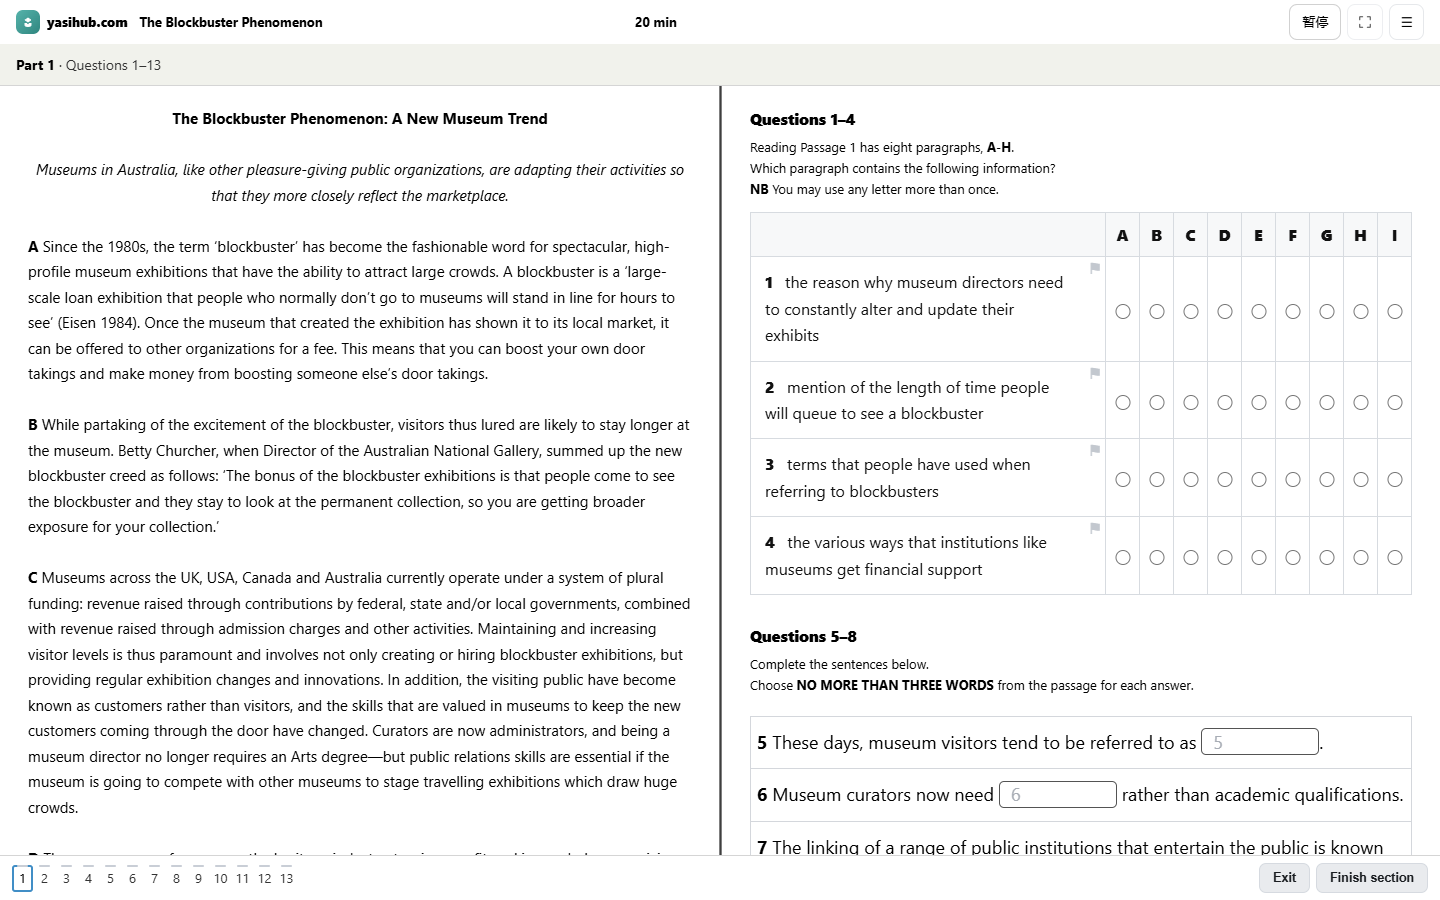
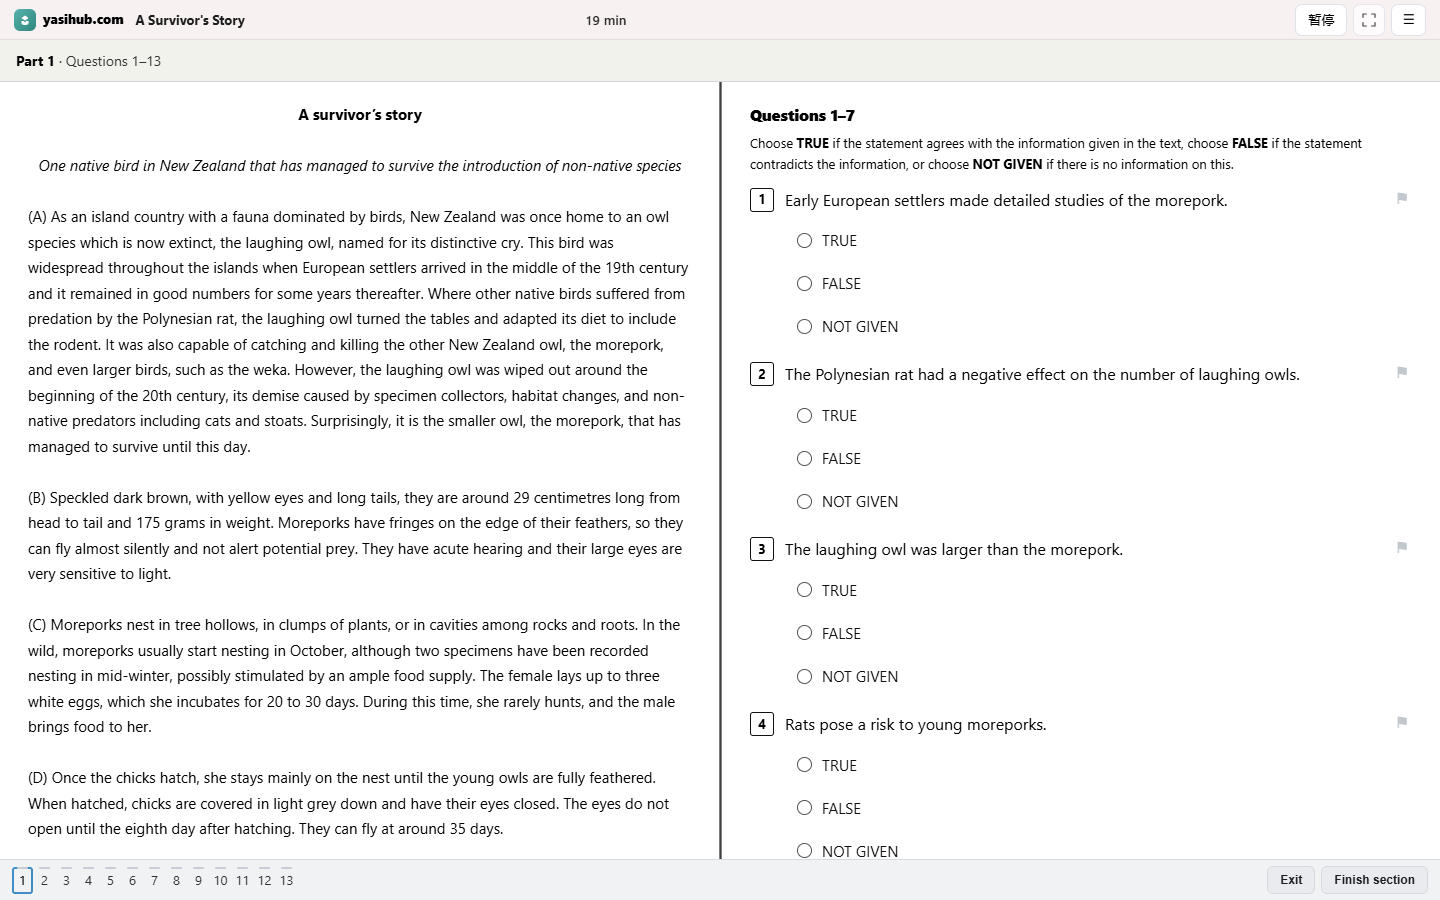
11-19 落地页四图换新 + 全站巡检两处修复

diff --git a/sw.js b/sw.js
@@ -76,7 +76,7 @@
 // bank.js → 20261012ac（仅 bank.html）。上一版 v409。
 // 注记：当前 CACHE v922 除设置页侧栏外，还含 11-16 AI-QUOTA-3（会员重活逐项 5 次、模考周 10 场、7 天卡 1/4）。
 // 11-16 v884 = BANK-V2：机经五格侧栏（阅读 / 听力 / 记录 / 错题 / 统计），听力中英双行、阅读源数据暂无中文先英文单行、整套收页首、目录扁平化、记录与统计重做空态和数据态、错题本轮只出「即将上线」罩衫、页底「机经是什么？」弹窗；判分与考场零改动。
-const CACHE = 'ielts-hub-v930';  // 11-19 v930 = LANDING-D 首页整体重排 + 计划页实截图更新；上一版 v929 新增真题词库证据块。
+const CACHE = 'ielts-hub-v932';  // 11-19 v932 = 落地页四图换新（v931）+ 设置页 $ 兜底、materials 桌面顶栏偏移修复；上一版 v930 LANDING-D 首页重排。
 const _prevCacheNote187 = 'ielts-hub-v871'; // 11-13 v872 = QUOTA-SELFHEAL-1 iPhone Safari 本地存储写不进自救（她 11-13 截图报「保存失败：本地存储空间已满（iPhone Safari 上限约 5MB），自动清理后仍放不下，请在设置导出备份并截图反馈」，原话「这个解决一下」）。根因＝js/data.js hubSave() 把整个 DATA 写单个 HUB_KEY，超 iPhone Safari ~5MB（UTF-16）配额抛 QuotaExceededError，旧兜底只 trimDictationDupes() 一种日志去重，清不动就 alert 挡整页 + 让用户导出备份/截图，且 __hubSaveAlerted 让本会话之后静默失败＝数据其实没存上还不知道。修法全部收在 hubSave/hubLoad 两个既有函数＋5 个新小工具，零 DOM/UI/用户数据删除、不改 DATA 结构、不引入同步读改造：① 保留默写日志去重；② 新增 shedLocalCacheKeys() 按白名单前缀精准清 origin 内纯缓存/草稿键（做题草稿 hub_bank_draft_/full_draft/last_、音量 vol、分栏比例、公告缓存、角色缓存、active），绝不 clear()、绝不碰 HUB_KEY/CREDS_KEY/hub_onboarding_v2/hub_auth_token/hub_device_id/hub_vip_flag_v1，每级清理后重试写盘；③ 仍放不下则 hubOffloadSave() 异步把主 blob 兜底写 IndexedDB（ielts_hub_offload/kv/main）+ 置极小标记，数据仍由 hubSave 末尾既有 scheduleCloudUpload() 上行，不丢；④ alert 换 hubQuotaNotice()＝非阻塞 toast（common.js 提供，缺失降 console.warn）+ 60s 防抖，不再让人干活；⑤ hubLoad 在主 blob 缺失且有标记时 hubOffloadLoad() 异步补回并 dispatch hub:data-merged 触发重渲。参考成熟口径：超限精准清理重试、禁 clear 误删凭证、大体积兜底 IndexedDB（bugnet.io / tutorials.dodatech.com / php.cn）。改 js/data.js 本体＝全站共享，按项目铁律 22 个根 HTML 的 js/data.js?v=20261030a→20261113d 整组同 bump；SW 预缓存裸路径 /js/data.js 不动。本地探针 tests/_probe_quota_fix_1113.cjs 全绿（正常保存走 localStorage / mock setItem 对 HUB_KEY 抛 QuotaExceededError 时触发日志去重＋缓存键清理＋IndexedDB 兜底＋不 alert＋云同步仍调用 / 白名单保护键一个没删 / offload 往返读回 / 22 页串 / node --check / 零双 CR）。发布按 11-09：一个改动一提交、自验全绿直接合 main 上线。
 const _prevCacheNote186 = 'ielts-hub-v870'; // 11-13 v871 = MAT-PROMPT-GENERIC 串题素材总纲重写（她 11-13 原话「我叫你调整串题 Promote……万一其他用户也要导入这样的你总不能帮他也重新做另一段话吧」「Promote 不要强制限定词数和故事个数，我要的就是把能重复利用的故事整合在一起就行了，尽可能少的故事串所有题目」）：「AI 整理成万能素材 / 导入整理」那条提示词 SYS_MAT 只认「一段段生活经历」、还硬卡 2~4 个故事 / 130~180 词 / 190 硬顶 / 3 句万能句 / 5~7 句骨架，用户粘「固定句式＋万能素材＋{ } 换词＋中文逻辑链＋铁律」的结构化背诵卡时套不进去、整理不出来。这次把总纲改成通用版：① 按语义识别两类输入（生活经历 / 结构化背诵卡，各用户措辞不同都认），可混用；② **不限制词数、句子长短、故事 / 卡片个数、万能句与骨架句数、不设字数硬顶**，一切以「能重复利用、尽可能少的故事串住尽可能多的题」为准；③ 结构化卡里的英文原句（含 { } 占位，里面可能是中文提示）一字不改照背、只替换 { } 里的词，不重组语序 / 不翻译 / 不续写，中文逻辑链与铁律进 logicZh / note 遵守；④ coverage 仍宁多勿漏、topic 仍逐字取当季题库清单（前端 normalizeMaterial 依赖），JSON schema 一字不变 → 前端零改动；⑤ importNote / user 尾句同步去掉「规则 5.2 / 连贯大故事 / 按段拆卡」等与照背冲突的旧措辞，storyEn 中文污染自愈也加了花括号占位保护，不会把 { } 里的中文提示改坏。零 DOM / id / 数据 / 判分 / 云同步 / 输入框 / AI 纠正改动；改 materials.js 本体 → materials.html 与 speaking.html 的 js/materials.js?v=20261102d→20261113c 两处同 bump；同笔把 js/sp-story.js 的串题规划 / 成稿提示词也加同一套通用兼容（{ } 占位与照背铁律的固定原句逐字沿用、不强制 110~150 词），speaking.html 的 js/sp-story.js?v=20261023a→20261113c；SW 预缓存清单（裸路径 /js/materials.js / /js/sp-story.js）不动。本地探针 tests/_probe_prompt_v3_1113.cjs 全绿（静态总纲无数字硬限 + 通用识别 + 照背 + schema 仍在；Playwright 实开 materials.html 拦截 callRelay 捕获真实 system/user 提示词核对；零 pageerror）。发布按 11-09：一个改动一提交、自验全绿直接合 main 上线。
 const _prevCacheNote185 = 'ielts-hub-v869'; // 11-13 v870 = REVIEW-REDESIGN-3 回顾模块重新设计（她 11-13 点头「两个我觉得都可以……成绩趋势改成趋势……可以开始改了，给我还原度高一点，改完自己检查一下」第 2 笔）：侧栏 5 项收成 3 项「总览 / 趋势 / 记录」（成绩趋势按她要求改两字「趋势」、四科表现并入总览、学习投入降为默认折叠、考试记录改「记录」），与计划页重复的「今天」待办块收掉、只留「去计划页查看全部」轻链接。重要数据放大：最近一次总分 62px 等宽、四科 2×2 且弱科用 --warn-ink 状态条、一句「先补哪几科」行动带；不再单独展示重复 4 数卡 / 水平标尺 / 距目标分 / 未达标科数，趋势页 4 数卡收成 2 张；四科雷达、连胜 / 最长连续 / 日均 / 累计、12 周热力图、14 天柱状、表现统计与题型 Part 明细全部保留但收进两个默认折叠（reHomeFold / reRecFold），展开即用。实现口径＝零 DOM/id/数据落点/事件绑定删除：js/rv-tabs.js 只改 TABS、老 hash #rv=subjects/effort 落回总览、总览顺带渲染折叠内容；review.html 结构重排 + 页内 style#reRedesign3 高特异度重皮，rvx-data.js 现填的 rvx* id 与 data-rv2-add / rvxWeakGo 委托一个没动；空账号沿用笔8 B 卡，两个折叠在空态不冒出来。颜色全走站点 token 深浅两档、零写死主题色值；改了 js/rv-tabs.js 本体→review.html 引用串 20261109a→20261113b，其余 ?v= 与 SW 预缓存清单全不动。本地探针 tests/_probe_review_v3_1113.cjs 44/44 全绿（静态原文/有数据桌面 19/老 hash/空账号/深色/手机/切 tab/录入弹窗/折叠展开真内容/零 pageerror），改后四态实拍逐张看过、干净。发布按 11-09：一个改动一提交、做完自验直接合 main 上线。

diff --git a/index.html b/index.html
@@ -10,14 +10,14 @@
 <meta property="og:url" content="https://yasihub.com/">
 <meta property="og:title" content="雅思备考 Hub｜今天该练什么，打开就知道">
 <meta property="og:description" content="627 篇阅读与听力练习、89 条口语题卡、42 套写作模板，加上每日清单、AI 批改和成绩回顾。">
-<meta property="og:image" content="https://yasihub.com/img/landing/plans-demo.png?v=930">
+<meta property="og:image" content="https://yasihub.com/img/landing/plans-demo.png?v=931">
 <meta property="og:image:alt" content="雅思备考 Hub 今日计划真实界面">
 <meta property="og:site_name" content="雅思备考 Hub">
 <meta property="og:locale" content="zh_CN">
 <meta name="twitter:card" content="summary_large_image">
 <meta name="twitter:title" content="雅思备考 Hub｜今天该练什么，打开就知道">
 <meta name="twitter:description" content="627 篇阅读与听力练习、89 条口语题卡、42 套写作模板，加上每日清单、AI 批改和成绩回顾。">
-<meta name="twitter:image" content="https://yasihub.com/img/landing/plans-demo.png?v=930">
+<meta name="twitter:image" content="https://yasihub.com/img/landing/plans-demo.png?v=931">
 <link rel="canonical" href="https://yasihub.com/">
 <title>雅思备考 Hub｜今天该练什么，打开就知道</title>
 <script type="application/ld+json">
@@ -77,7 +77,7 @@
     <div class="hero-visual">
       <div class="shot">
         <div class="shot-bar"><span class="shot-dots"><i></i><i></i><i></i></span>YASIHUB / TODAY<span class="shot-status"><i></i>今天 1 / 3 已完成</span></div>
-        <img src="img/landing/plans-demo.png?v=930" width="1160" height="725" alt="雅思备考 Hub 今日计划真实界面，显示待练任务、剩余时间和完成进度" fetchpriority="high">
+        <img src="img/landing/plans-demo.png?v=931" width="1160" height="725" alt="雅思备考 Hub 今日计划真实界面，显示待练任务、剩余时间和完成进度" fetchpriority="high">
         <div class="shot-foot"><span>每日清单 · 做完打勾</span><span>真实页面 · 演示数据</span></div>
       </div>
     </div>
@@ -93,8 +93,8 @@
     <div class="section-head"><div><span class="eyebrow">THE DAILY LOOP</span><h2>从今天的清单，<br>回到自己的进步。</h2></div><p>不是把功能堆在一起。做什么、怎么练、练完看什么，接上同一条轨迹。</p></div>
     <div class="workflow-grid">
       <article class="today-step reveal"><span class="step-no">01 / TODAY</span><h3>今天该练什么，<br>不用临时起意。</h3><p>首屏这张清单，就是每天的起点。</p><ul class="check-list"><li>每项写清练习内容和时长</li><li>做完打勾，先做最上面一项</li><li>没做完的顺延，不会悄悄丢掉</li></ul></article>
-      <article class="step reveal"><div class="shot"><img src="img/landing/speaking-materials.png?v=930" width="1160" height="725" alt="口语素材真实页面，用个人经历串起当季口语题"></div><div class="step-caption"><span class="step-no">02 / SPEAKING</span><h3>52 道题，<br>不用写 52 篇素材。</h3><p>先整理自己的经历，再看同一段经历能接住哪些当季题。新题来了，不必从零开始。</p></div></article>
-      <article class="step reveal"><div class="shot"><img src="img/landing/review-demo.png?v=930" width="1160" height="725" alt="成绩回顾真实页面，展示四科成绩、目标差和趋势"></div><div class="step-caption"><span class="step-no">03 / PROGRESS</span><h3>练完有没有进步，<br>别凭感觉。</h3><p>模考成绩、四科分数和练习记录收在一处。最近一次考多少、哪科最弱，打开就知道。</p></div></article>
+      <article class="step reveal"><div class="shot"><img src="img/landing/speaking-materials.png?v=931" width="1160" height="725" alt="口语素材真实页面，用个人经历串起当季口语题"></div><div class="step-caption"><span class="step-no">02 / SPEAKING</span><h3>52 道题，<br>不用写 52 篇素材。</h3><p>先整理自己的经历，再看同一段经历能接住哪些当季题。新题来了，不必从零开始。</p></div></article>
+      <article class="step reveal"><div class="shot"><img src="img/landing/review-demo.png?v=931" width="1160" height="725" alt="成绩回顾真实页面，展示四科成绩、目标差和趋势"></div><div class="step-caption"><span class="step-no">03 / PROGRESS</span><h3>练完有没有进步，<br>别凭感觉。</h3><p>模考成绩、四科分数和练习记录收在一处。最近一次考多少、哪科最弱，打开就知道。</p></div></article>
     </div>
   </div>
 </section>
@@ -102,7 +102,7 @@
   <div class="wrap">
     <div class="section-head"><div><span class="eyebrow">REAL EXAM CONTENT</span><h2>题目、答案、复盘，<br>在同一条线上。</h2></div><p>机考界面不稀奇，重要的是练完以后，答案和记录都能接住。</p></div>
     <div class="exam-grid">
-      <div class="shot reveal"><img src="img/landing/exam-reading.png?v=930" width="1440" height="900" alt="阅读机考真实界面，左侧文章右侧题目，底部题号导航"></div>
+      <div class="shot reveal"><img src="img/landing/exam-reading.png?v=931" width="1440" height="900" alt="阅读机考真实界面，左侧文章右侧题目，底部题号导航"></div>
       <div class="exam-list reveal"><div class="exam-item"><b>左原文，右题目</b><p>在电脑上熟悉真正的做题节奏，而不是只刷手机选择题。</p></div><div class="exam-item"><b>交卷即出分</b><p>答案随题配置，练完不用另找答案册。</p></div><div class="exam-item"><b>成绩进回顾</b><p>做完的每一次，都能回到同一条学习轨迹里。</p></div></div>
     </div>
   </div>

diff --git a/materials.html b/materials.html
@@ -512,6 +512,14 @@
      🔴 将来改本页样式时注意：若新增「内联故意输给 css/p/materials.css」的同特异度规则，
         软导航进来会与直开不一致 —— 那种情况要把规则写进 materials.css 而不是内联。 -->
 <link rel="stylesheet" href="css/p/materials.css?v=20261116a" />
+<style>
+/* 11-19：materials.html 是唯一「body data-shell=top + 裸 main.container + #matRoot」的页面。
+   桌面端 body 不加 44px 顶栏占位（手机端由 common.css 媒体查询补），导致内容被 fixed 顶栏压住，
+   开场 52 题横幅整块看不见。这里只给本页补桌面外壳偏移，不动模块本身。 */
+@media (min-width: 861px) {
+  body[data-shell="top"] main.container { padding-top: 58px; }
+}
+</style>
 </head>
 <body data-shell="top">
 <div id="bootLoader" class="hub-loader show" aria-hidden="true"><div class="ui-loader" role="status" aria-label="Loading"><span class="ui-loader-dot"></span><span class="ui-loader-dot m2"></span><span class="ui-loader-dot m3"></span><span class="ui-loader-shadow"></span><span class="ui-loader-shadow m2"></span><span class="ui-loader-shadow m3"></span></div></div>

diff --git a/js/settings.js b/js/settings.js
@@ -1,5 +1,11 @@
 // 10-23 T-002 步5：applyFontScale / applyReduceMotion 定义在 js/common.js（每页都要能用），
 // 这里只负责表单回填与落库后的即时应用。
+// 11-19：settings.js 依赖 common-shell.js 暴露的全局 $。从 me.html 桌面端 location.replace 过来时，
+// 若 saveSettings 在 common-shell 就绪前被触发，会出现「$ is not defined」→ 保存静默失败。
+// 这里补同签名兜底，不改变已有行为；common-shell 后续赋值同实现。
+if (typeof window.$ !== 'function') {
+  window.$ = function (s) { return document.querySelector(s); };
+}
 
 /* ═══ SET-2b（10-27）· 偏好类开关的防抖保存 ═══
    她 10:0x 报「三档切换会卡住」：每次点击同步 hubSave() = 全量 JSON.stringify(DATA) +

diff --git a/settings.html b/settings.html
@@ -396,7 +396,7 @@ setTimeout(__rvRescue,2500);
   <script defer src="js/feedback.js?v=20261111b"></script>
   <!-- 10/3 头像选择（DiceBear CC0 素材；必须在 data.js/common.js 之后 —— 它读 DATA.settings.avatar） -->
   <script defer src="js/av-picker.js?v=20261107d"></script>
-  <script src="js/settings.js?v=20261117a" defer></script>
+  <script src="js/settings.js?v=20261119a" defer></script>
 <style id="bootLoaderStyle">
 #bootLoader{position:fixed;inset:0;z-index:99999;display:flex;align-items:center;justify-content:center;background:radial-gradient(1100px 560px at 100% -8%,rgba(58,154,147,.05),transparent 60%),var(--bg,#f6f9fb);opacity:1;pointer-events:auto;transition:opacity .18s ease}
 #bootLoader.hide{opacity:0;pointer-events:none}
